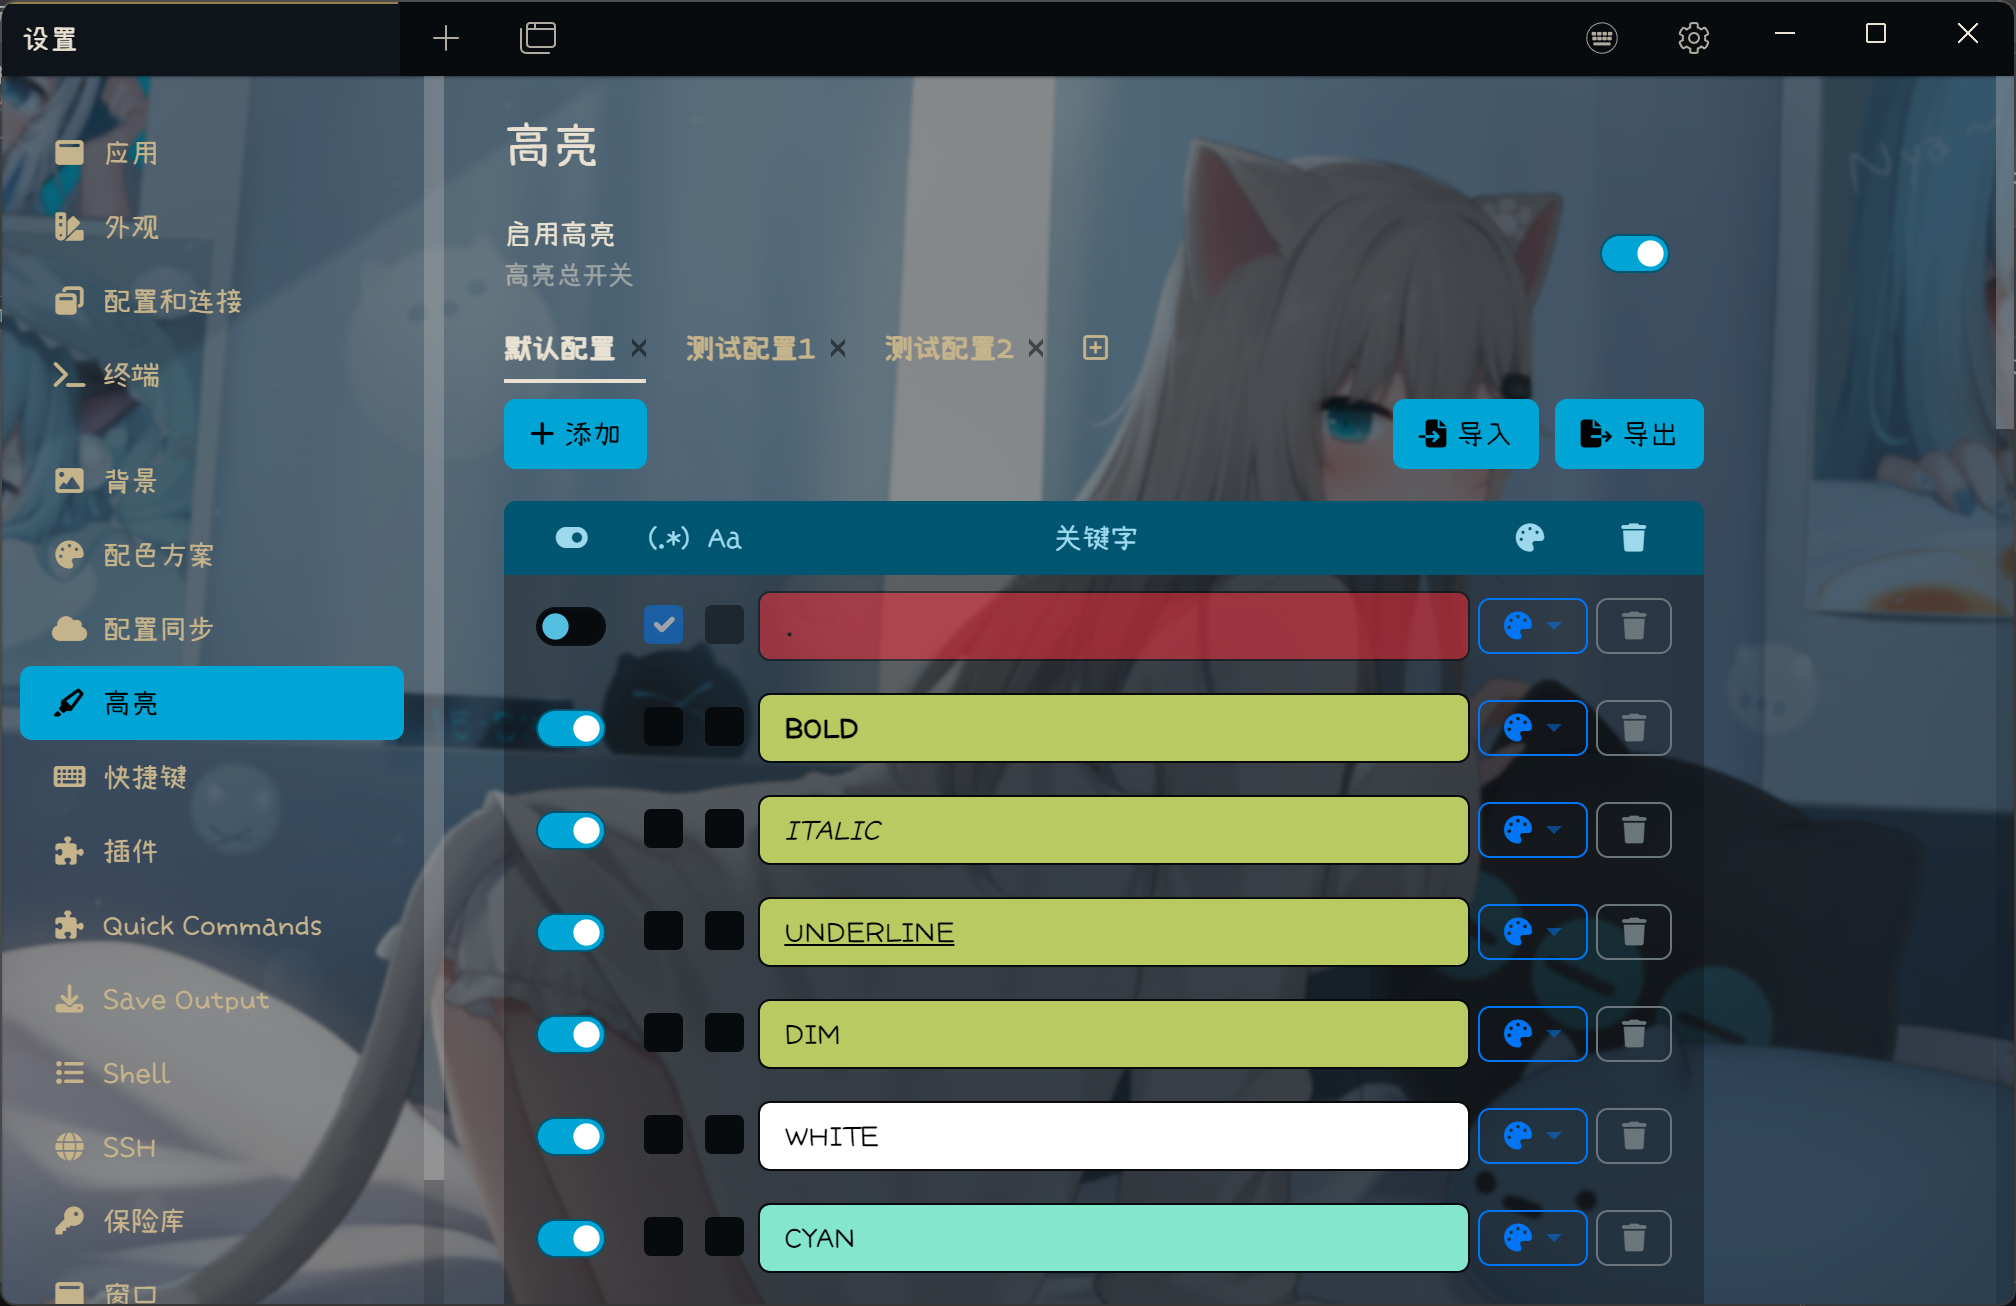
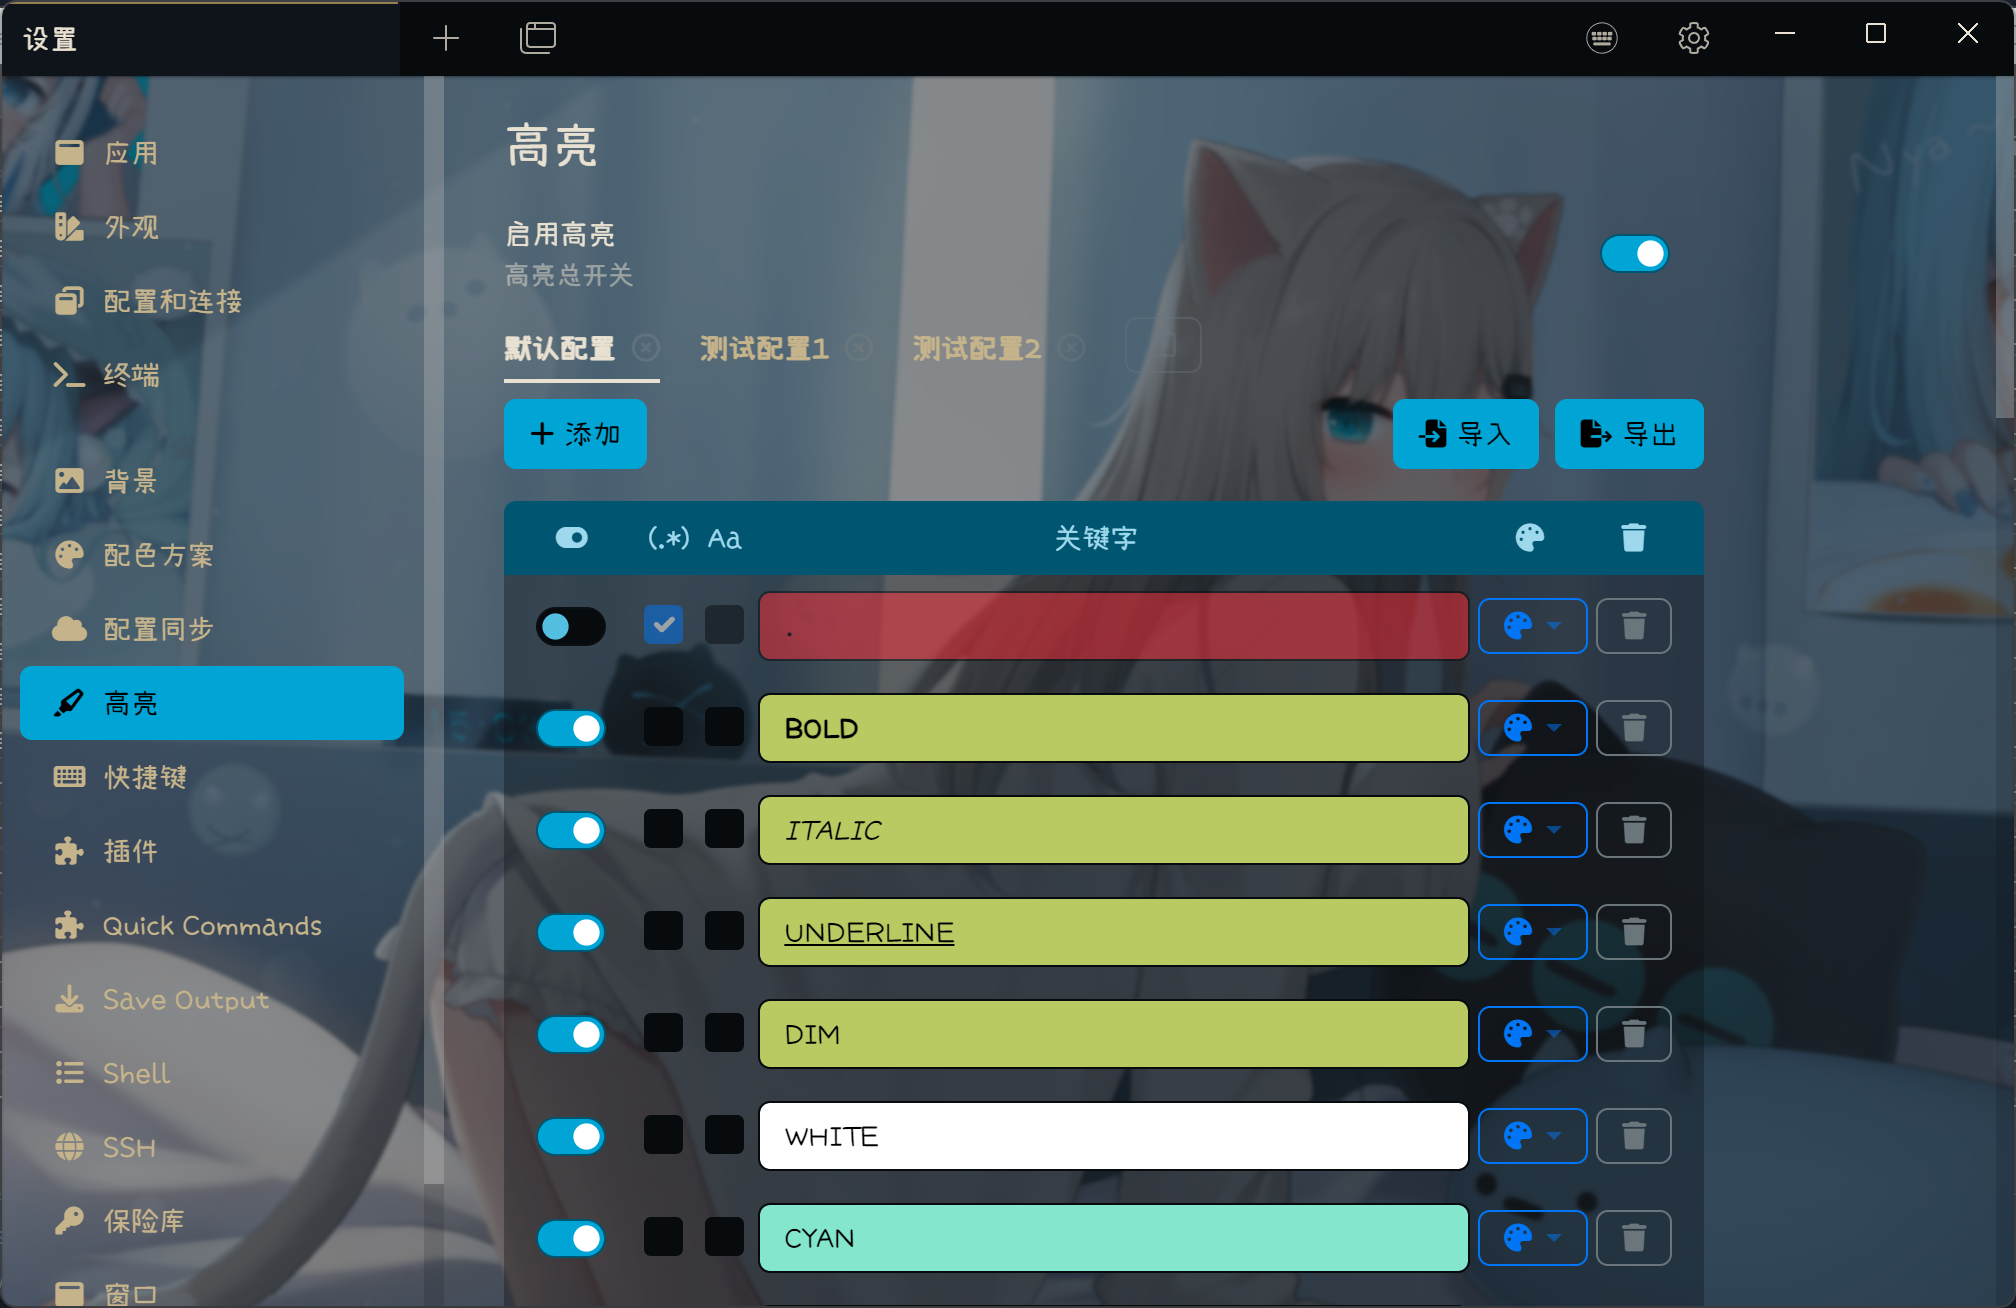
small fix.

diff --git a/src/settings-tab.component.ts b/src/settings-tab.component.ts
@@ -17,12 +17,18 @@ import { HighlightKeyword, HighlightPluginConfig } from "./config.provider";
         // backdrop-filter: blur(3px);
       }
       .close {
-        font-size: 1.4rem;
+        // font-size: 1.4rem;
         opacity: 0.1;
         transition: opacity 0.3s;
       }
       .nav-link:hover > .close {
         opacity: 0.8;
+      }
+      .add-button {
+        opacity: 0.4;
+      }
+      .add-button:hover {
+        opacity: 0.9;
       }
     `,
   ],
